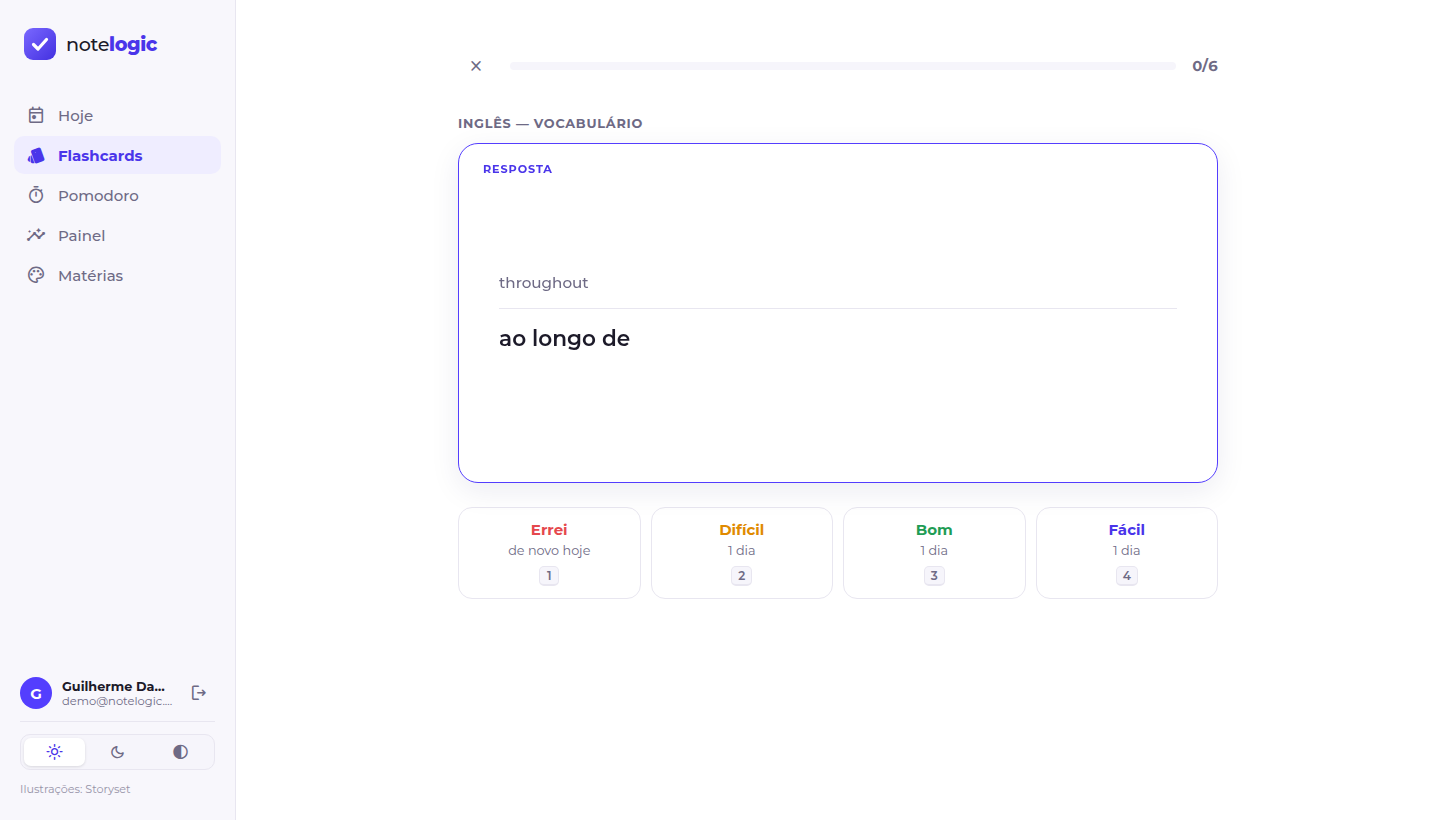
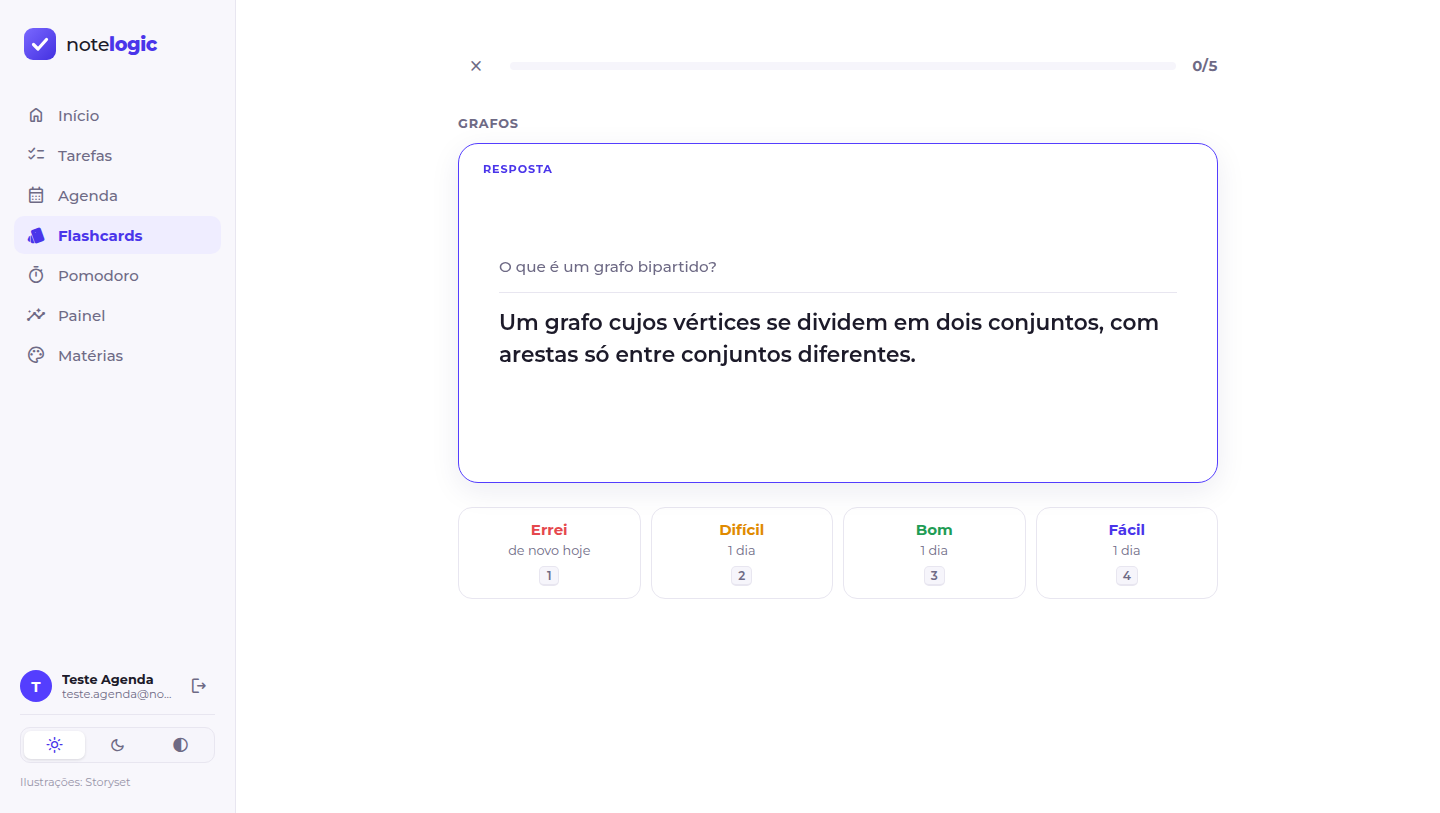
docs: README com Início e Agenda, prints novos (1440x900) da conta de exemplo

diff --git a/README.md b/README.md
@@ -1,47 +1,62 @@
 # NoteLogic
 
-Aplicativo de estudos que junta **tarefas**, **flashcards com revisão espaçada** e **pomodoro** num lugar só, com um
-**painel** que mostra como os estudos estão indo. Tudo gira em torno das **matérias**: uma tarefa, um baralho e uma
-sessão de foco pertencem a uma matéria, e o painel cruza os três.
+Aplicativo de estudos que junta **tarefas**, **agenda**, **flashcards com revisão espaçada** e **pomodoro** num
+lugar só, com um **painel** que mostra como os estudos estão indo. Tudo gira em torno das **matérias**: uma tarefa,
+um evento, um baralho e uma sessão de foco pertencem a uma matéria, e o painel cruza tudo isso.
 
-API em **Java 25 + Spring Boot 4**, front em **Angular 22**, banco **PostgreSQL**. É a versão 2 do
+**Java 25 + Spring Boot 4** na API, **Angular 22** no front e **PostgreSQL** no banco. É a versão 2 do
 [NoteLogic original em Django](https://github.com/Guilhermedantass/NoteLogic-django), reescrita do zero.
 
-![Painel com sequência de dias, foco por dia e por matéria, taxa de acerto e heatmap do último ano](docs/prints/painel.png)
+![Tela Início: tarefas do dia, agenda de hoje e próximas datas importantes](docs/prints/inicio.png)
 
 <table>
   <tr>
-    <td><img src="docs/prints/hoje.png" alt="Tela Hoje: tarefas agrupadas por prazo, com matéria e prioridade" /></td>
-    <td><img src="docs/prints/estudo.png" alt="Estudo de flashcards: cartão virado e os quatro botões com o intervalo previsto" /></td>
+    <td width="50%"><img src="docs/prints/agenda.png" alt="Agenda na semana: rotina de treino e aulas que se repetem, e as tarefas com prazo no topo de cada dia" /></td>
+    <td width="50%"><img src="docs/prints/tarefas.png" alt="Tarefas agrupadas em atrasadas, para hoje e próximas, com filtro por matéria" /></td>
   </tr>
   <tr>
+    <td><img src="docs/prints/estudo.png" alt="Estudo de flashcards: cartão virado e os quatro botões com o intervalo previsto" /></td>
     <td><img src="docs/prints/pomodoro.png" alt="Pomodoro rodando, ligado a uma tarefa, com o histórico do dia" /></td>
-    <td><img src="docs/prints/painel-escuro.png" alt="Painel no modo escuro" /></td>
+  </tr>
+  <tr>
+    <td><img src="docs/prints/painel.png" alt="Painel com sequência de dias, foco por dia e por matéria, taxa de acerto e heatmap do último ano" /></td>
+    <td><img src="docs/prints/agenda-mes-escuro.png" alt="Agenda no mês, no tema escuro, com uma semana de provas e a rotina" /></td>
   </tr>
 </table>
 
 ## O que ele faz
 
-- **Tarefas:** prazo, prioridade e matéria; a tela "Hoje" agrupa em atrasadas, para hoje, próximas e sem prazo.
+- **Início:** a tela que abre depois do login, só com o que é do dia: as tarefas atrasadas e de hoje, os eventos de
+  hoje e as **próximas datas importantes** (provas e entregas de prioridade alta nos próximos 30 dias, com
+  contagem regressiva).
+- **Tarefas:** prazo, prioridade e matéria, agrupadas em atrasadas, para hoje, próximas e sem prazo.
 - **Tarefas que se repetem:** todo dia, dias úteis, dias da semana escolhidos, a cada N dias ou todo mês. Cada uma
-  escolhe se, quando não é feita no dia, **expira** ou **vira atrasada**; editar e apagar perguntam "só esta" ou
+  escolhe se, quando não é feita no dia, **expira** ou **vira atrasada**. Editar e apagar perguntam "só esta" ou
   "esta e as próximas", e a lista mostra a constância ("18/20").
+- **Agenda:** semana, mês e dia, com os **eventos** (prova, aula, treino) e as tarefas com prazo. O que se *conclui*
+  é tarefa; o que *acontece* num horário é evento.
+  - **Rotina:** eventos que se repetem ("treino segunda, quarta e sexta às 9h"), com as mesmas regras das tarefas.
+    Dá para mudar ou cancelar **só uma** ocorrência ("hoje não tem aula") ou dividir a série a partir de um dia.
+  - **Categorias** com nome e cor. As marcadas com estrela (Prova, por exemplo) viram **datas importantes** no
+    Início.
+  - Arrastar muda o dia ou o horário; clicar num espaço vazio cria um evento ali.
 - **Flashcards com SM-2:** o algoritmo de repetição espaçada que é a base do Anki. Você responde *Errei / Difícil /
   Bom / Fácil* e o cartão volta no momento certo de ser lembrado; cada botão já mostra quando ("1 dia", "6 dias").
-  Cartão vira em 3D e dá para estudar só pelo teclado.
-- **Pomodoro:** sessões de foco ligadas a uma tarefa ou matéria. O timer sobrevive a F5 e a aba em segundo plano,
+  O cartão vira em 3D e dá para estudar só pelo teclado.
+- **Pomodoro:** sessões de foco ligadas a uma tarefa ou matéria. O timer sobrevive a F5 e à aba em segundo plano,
   toca um alarme, manda notificação e sugere a pausa (longa a cada 4 focos).
 - **Painel:** sequência de dias estudando, minutos por dia e por matéria, taxa de acerto e um heatmap do último ano.
 - **Contas:** cadastro e login com JWT; cada pessoa só enxerga os próprios dados.
-- **Tema claro e escuro**, escolhido na barra lateral.
+- **Tema claro e escuro** (ou seguir o sistema), escolhido na barra lateral.
 
-O que vem pela frente, as decisões de produto e as ideias em discussão estão no **[roadmap](docs/ROADMAP.md)**.
+O que vem pela frente (deploy, Kanban, banco de questões...), as decisões de produto e as ideias em discussão estão
+no **[roadmap](docs/ROADMAP.md)**.
 
 ## Arquitetura
 
 ```mermaid
 flowchart LR
-    W["web/ · Angular 22<br/>signals, httpResource"] -- "REST + JWT<br/>(proxy /api em dev)" --> A
+    W["web/ · Angular 22<br/>signals, httpResource,<br/>FullCalendar"] -- "REST + JWT<br/>(proxy /api em dev)" --> A
     subgraph A["api/ · Java 25 + Spring Boot 4"]
         SEC["Spring Security<br/>filtro JWT"] --> C[controllers]
         C --> SV[services] --> R["repositories<br/>JPA + JdbcClient"]
@@ -49,8 +64,9 @@ flowchart LR
     R --> DB[("PostgreSQL<br/>migrations Flyway")]
 ```
 
-A API é organizada **por funcionalidade** (`tarefa/`, `materia/`, `flashcard/`, `pomodoro/`, `estatistica/`,
-`usuario/`), cada pacote com controller, service, repository e DTOs. O front segue a mesma divisão.
+A API é organizada **por funcionalidade** (`tarefa/`, `recorrencia/`, `agenda/`, `materia/`, `flashcard/`,
+`pomodoro/`, `estatistica/`, `usuario/`), cada pacote com controller, service, repository e DTOs. O front segue a
+mesma divisão, com uma pasta por tela.
 
 ## Decisões que valem a pena olhar
 
@@ -58,20 +74,25 @@ A API é organizada **por funcionalidade** (`tarefa/`, `materia/`, `flashcard/`,
 |---|---|
 | `api/.../flashcard/AgendadorSm2.java` | SM-2 como **lógica pura** (sem Spring nem banco), testado com JUnit puro. O front tem uma cópia só para *prever* os intervalos, testada com **os mesmos casos** do Java. |
 | `api/.../recorrencia/` | A regra de repetição é guardada, e cada dia vira uma tarefa comum **sob demanda** (ao listar), sem job à meia-noite. O calendário é lógica pura testada com casos de borda (dia 31 em fevereiro, ano bissexto); uma trava pessimista e um índice único impedem ocorrências duplicadas. |
+| `api/.../recorrencia/RegraRecorrencia.java` | A regra é um **record `@Embeddable`**: tarefas recorrentes e eventos guardam as colunas da regra na própria tabela e usam o mesmo cálculo de datas. |
+| `api/.../agenda/EventoService.java` | As ocorrências de um evento que se repete **não são salvas**: são calculadas para o período pedido. "Só esta" vira uma linha de exceção (cancelada ou movida); "esta e as próximas" encerra a série na véspera e cria outra, como o Google Agenda. Um limite de "N vezes" continua valendo para as duas partes juntas. |
+| `api/.../agenda/PeriodoEvento.java` + `V8__*.sql` | As regras de data e hora (fim depois do início, dia inteiro sem horário...) ficam no domínio **e** como `check` no banco. Data e hora são guardadas **sem fuso**: "treino às 9h" é 9h no relógio o ano todo. |
 | `api/.../config/Relogio.java` | O "agora" é um `Clock` injetado. Os testes controlam o tempo e provam, por exemplo, que 23h30 de domingo em São Paulo conta como domingo. |
 | `api/.../pomodoro/SessaoFoco.java` + `V4__*.sql` | A entidade é uma máquina de estados; um **índice único parcial** no Postgres garante uma sessão em andamento por usuário, mesmo com duas requisições simultâneas. |
 | `api/.../estatistica/EstatisticaConsultas.java` | As agregações saem do JPA para **SQL com `JdbcClient`**: agrupar por dia no fuso do usuário é trabalho do banco. |
 | `api/.../erro/TratadorDeErros.java` | Todos os erros no formato **ProblemDetail** (RFC 9457): 400, 401, 404, 409 e 422 com o mesmo formato, que o front lê. |
 | `api/.../config/Seguranca.java` | API **stateless** com JWT (HS256) e senhas em **BCrypt**. Dado de outro usuário responde 404 (e não 403), para não revelar que o id existe. |
+| `web/.../agenda/` | O FullCalendar só desenha: os dados vêm da API a cada período mostrado, e o visual usa as variáveis de cor do app, então o calendário troca de tema junto com o resto. A tradução API → calendário (`calendario.ts`) é lógica pura, testada sem montar a tela. |
 | `web/.../pomodoro/pomodoro.ts` | O timer não conta para baixo: calcula `fimPrevisto − agora` a cada tick, então não atrasa quando o navegador desacelera a aba. |
 | `web/.../painel/` | Gráficos em HTML/CSS feitos à mão, sem biblioteca. A escala de cor do heatmap foi validada (contraste e degraus) nos dois temas. |
 
 ## Testes
 
-- **API:** 76 testes. Unitários para o SM-2 e a sequência de dias; de integração com **Testcontainers** (Postgres de
-  verdade) e MockMvc para cada módulo, incluindo o fluxo real de login com JWT e testes de **isolamento entre
-  usuários** (um não vê, não altera e não usa nada do outro).
-- **Web:** 18 testes com Vitest (datas, SM-2, gráficos, expiração do token, layout).
+- **API:** 104 testes. Unitários para o SM-2, o calendário de repetição e a sequência de dias; de integração com
+  **Testcontainers** (Postgres de verdade) e MockMvc para cada módulo, incluindo a repetição de eventos ("só esta",
+  "esta e as próximas", limite de vezes), o fluxo real de login com JWT e testes de **isolamento entre usuários**
+  (um não vê, não altera e não usa nada do outro).
+- **Web:** 24 testes com Vitest (datas, SM-2, conversão para o calendário, gráficos, expiração do token, layout).
 
 ```bash
 cd api && ./mvnw test        # precisa do Docker rodando (Testcontainers)
@@ -93,7 +114,8 @@ npm install
 npx ng serve
 ```
 
-Abra http://localhost:4200 e crie uma conta.
+Abra http://localhost:4200 e crie uma conta. Ela já vem com as categorias da agenda (Prova, Aula, Treino e
+Compromisso).
 
 > Em produção, defina a variável de ambiente `NOTELOGIC_JWT_SEGREDO` (32+ caracteres aleatórios); o valor do
 > `application.properties` é só para desenvolvimento.
@@ -103,18 +125,20 @@ Abra http://localhost:4200 e crie uma conta.
 ```
 api/                      Spring Boot
   src/main/java/dev/guilherme/notelogic/
-    tarefa/ materia/ flashcard/ pomodoro/ estatistica/ usuario/   um pacote por funcionalidade
+    tarefa/ recorrencia/ agenda/ materia/ flashcard/ pomodoro/ estatistica/ usuario/   um pacote por funcionalidade
     config/               segurança (JWT) e relógio
     erro/                 exceções de domínio e o tratador global
-  src/main/resources/db/migration/                                V1 a V7 (Flyway)
+  src/main/resources/db/migration/                                V1 a V9 (Flyway)
 web/                      Angular
   src/app/
-    tarefas/ materias/ flashcards/ pomodoro/ painel/ auth/        uma pasta por tela
+    inicio/ tarefas/ agenda/ materias/ flashcards/ pomodoro/ painel/ auth/   uma pasta por tela
     core/                 services HTTP, interceptor, guard, modelos e funções puras
-    layout/               shell, barra lateral e marca
-docs/prints/              imagens deste README
+    layout/               shell, barra lateral, marca e janela (modal)
+docs/
+  ROADMAP.md              próximas features, decisões de produto e ideias em aberto
+  prints/                 imagens deste README
 ```
 
 ## Créditos
 
-Ilustrações das telas de entrada e de tarefas: [Storyset](https://storyset.com).
+Ilustrações das telas de entrada, Início e Tarefas: [Storyset](https://storyset.com).
